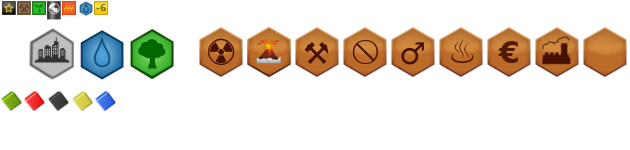
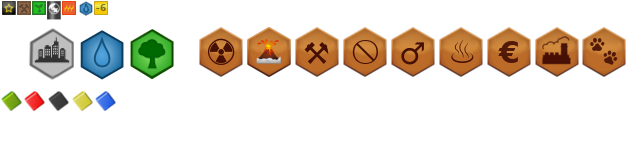
More details for specific tiles; #376 (#414)
* More details for specific tiles; #376

* Use CardName enum; #376

* Remove debug code

* Use new TileTypes instead of tileDetails to show correct tile images; #376

Changed region(s): [[0.9048, 0.1867, 0.9952, 0.5067]]

diff --git a/src/components/Tile.ts b/src/components/Tile.ts
@@ -2,39 +2,81 @@ import { TileType } from "../TileType";
 import { Color } from "../Color";
 import Vue from "vue";
 
+let tileTypeToCssClass = new Map<TileType, string>([
+    [TileType.COMMERCIAL_DISTRICT, "commercial_district"],
+    [TileType.ECOLOGICAL_ZONE, "ecological_zone"],
+    [TileType.INDUSTRIAL_CENTER, "industrial_center"],
+    [TileType.LAVA_FLOWS, "lava_flows"],
+    [TileType.MINING_AREA, "mining_area"],
+    [TileType.MINING_RIGHTS, "mining_rights"],
+    [TileType.MOHOLE_AREA, "mohole_area"],
+    [TileType.NATURAL_PRESERVE, "natural_preserve"],
+    [TileType.NUCLEAR_ZONE, "nuclear_zone"],
+    [TileType.RESTRICTED_AREA, "restricted_area"]
+]);
+
 export const Tile = Vue.component("bonus", {
     props: ["space"],
     data: function () {
         return {}
     },
     render: function (createElement) {
-        let tile_elements = [];
+        let tileElements = [];
         let app = this;
 
-        let build_tile_css_class = (tile_type: TileType):string => {
+        let buildTileCssClass = (tileType: TileType):string => {
             var ret = "board_tile board_tile--";
-            if (tile_type == TileType.GREENERY) {
+            if (tileType === TileType.GREENERY) {
                 ret += "greenery";
-            } else if (tile_type == TileType.OCEAN) {
+            } else if (tileType === TileType.OCEAN) {
                 ret += "ocean";
-            } else if (tile_type == TileType.CITY) {
+            } else if (tileType === TileType.CITY) {
                 ret += "city";
-            } else if (tile_type == TileType.SPECIAL) {
-                ret += "special";
+            } else {
+                ret += tileTypeToCssClass.get(tileType);
             }
 
             ret += " board_tile_pos--" + app.space.id.toString();
             return ret
         }
 
-        let tile_type = this.space.tileType;
-        if (tile_type !== undefined) {
-            tile_elements.push(
-                createElement("i", {"class": build_tile_css_class(tile_type)})
+        let getVerboseTitle = (tileType: TileType): string => {
+            let ret: string = ""; 
+            if (tileType === TileType.MOHOLE_AREA) {
+                ret = "Mohole Area"
+            } else if (tileType === TileType.COMMERCIAL_DISTRICT) {
+                ret = "Commercial District: 1 VP per adjacent city tile"
+            } else if (tileType === TileType.ECOLOGICAL_ZONE) {
+                ret = "Ecological Zone: 1 VP per 2 Animals on this card"
+            } else if (tileType === TileType.INDUSTRIAL_CENTER) {
+                ret = "Industrial Center"
+            } else if (tileType === TileType.LAVA_FLOWS) {
+                ret = "Lava Flows"
+            } else if (tileType === TileType.MINING_AREA) {
+                ret = "Mining Area"
+            } else if (tileType === TileType.MINING_RIGHTS) {
+                ret = "Mining Rights"
+            } else if (tileType === TileType.NATURAL_PRESERVE) {
+                ret = "Natural Preserve"
+            } else if (tileType === TileType.NUCLEAR_ZONE) {
+                ret = "Nuclear Zone"
+            } else if (tileType === TileType.RESTRICTED_AREA) {
+                ret = "Restricted Area"
+            }
+            return ret;
+        }
+
+        let tileType: TileType = this.space.tileType;
+        if (tileType !== undefined) {
+            tileElements.push(
+                createElement("i", {
+                    "class": buildTileCssClass(tileType),
+                    "attrs": {"title": getVerboseTitle(tileType)}
+                })
             )
         }
 
-        let build_player_css_class = (player_color: Color):string => {
+        let buildPlayerCssClass = (player_color: Color):string => {
             var ret = "board_cube board_cube--";
             ret += player_color;
             ret += " board_cube_pos--" + app.space.id.toString();
@@ -44,11 +86,11 @@ export const Tile = Vue.component("bonus", {
         let color = this.space.color;
 
         if (color) {
-            tile_elements.push(
-                createElement("i", {"class": build_player_css_class(color)})
+            tileElements.push(
+                createElement("i", {"class": buildPlayerCssClass(color)})
             )
         }
         
-        return createElement("span", tile_elements);
+        return createElement("span", tileElements);
     }
 });

diff --git a/src/styles/board.less b/src/styles/board.less
@@ -80,8 +80,6 @@
 	height: 18px;
 }
 
-
-
 .board_tile {
 	position: absolute;
 	width: 44px;
@@ -102,8 +100,40 @@
 	background: url(assets/board_icons.png) -130px -27px no-repeat;
 }
 
-.board_tile--special {
+.board_tile--mohole_area {
+	background: url(assets/board_icons.png) -439px -26px no-repeat;	
+}
+
+.board_tile--commercial {
+	background: url(assets/board_icons.png) -488px -26px no-repeat;	
+}
+
+.board_tile--ecological_zone {
 	background: url(assets/board_icons.png) -583px -26px no-repeat;	
+}
+
+.board_tile--industrial_center {
+	background: url(assets/board_icons.png) -536px -26px no-repeat;	
+}
+
+.board_tile--lava_flows {
+	background: url(assets/board_icons.png) -248px -26px no-repeat;	
+}
+
+.board_tile--mining_area, .board_tile--mining_rights {
+	background: url(assets/board_icons.png) -296px -26px no-repeat;	
+}
+
+.board_tile--natural_preserve {
+	background: url(assets/board_icons.png) -391px -26px no-repeat;	
+}
+
+.board_tile--nuclear_zone {
+	background: url(assets/board_icons.png) -200px -26px no-repeat;	
+}
+
+.board_tile--restricted_area {
+	background: url(assets/board_icons.png) -344px -26px no-repeat;	
 }
 
 .board_cube {

diff --git a/src/cards/prelude/LavaTubeSettlement.ts b/src/cards/prelude/LavaTubeSettlement.ts
@@ -20,11 +20,15 @@ export class LavaTubeSettlement implements IProjectCard {
         return LavaFlows.getVolcanicSpaces(player, game).length > 0 && player.getProduction(Resources.ENERGY) >= 1;
     }
     public play(player: Player, game: Game) {
-        return new SelectSpace("Select either Tharsis Tholus, Ascraeus Mons, Pavonis Mons or Arsia Mons", LavaFlows.getVolcanicSpaces(player, game), (space: ISpace) => {
-            game.addCityTile(player, space.id);
-            player.setProduction(Resources.MEGACREDITS,2);
-            player.setProduction(Resources.ENERGY,-1);
-            return undefined;
-        });
+        return new SelectSpace(
+            "Select either Tharsis Tholus, Ascraeus Mons, Pavonis Mons or Arsia Mons", 
+            LavaFlows.getVolcanicSpaces(player, game), 
+            (space: ISpace) => {
+                game.addCityTile(player, space.id);
+                player.setProduction(Resources.MEGACREDITS,2);
+                player.setProduction(Resources.ENERGY,-1);
+                return undefined;
+            }
+        );
     }
 }

diff --git a/src/TileType.ts b/src/TileType.ts
@@ -3,5 +3,15 @@ export enum TileType {
     GREENERY,
     OCEAN,
     CITY,
-    SPECIAL
+    
+    COMMERCIAL_DISTRICT,
+    ECOLOGICAL_ZONE,
+    INDUSTRIAL_CENTER,
+    LAVA_FLOWS,
+    MINING_AREA,
+    MINING_RIGHTS,
+    MOHOLE_AREA,
+    NATURAL_PRESERVE,
+    NUCLEAR_ZONE,
+    RESTRICTED_AREA
 }

diff --git a/tests/cards/LavaFlows.spec.ts b/tests/cards/LavaFlows.spec.ts
@@ -13,11 +13,11 @@ describe("LavaFlows", function () {
         const card = new LavaFlows();
         const player = new Player("test", Color.BLUE, false);
         const game = new Game("foobar", [player,player], player);
-        game.addTile(player, SpaceType.LAND, game.getSpace(SpaceName.THARSIS_THOLUS), { tileType: TileType.SPECIAL }); 
+        game.addTile(player, SpaceType.LAND, game.getSpace(SpaceName.THARSIS_THOLUS), { tileType: TileType.LAVA_FLOWS }); 
         const anotherPlayer = new Player("test", Color.RED, false);
         game.getSpace(SpaceName.ASCRAEUS_MONS).player = anotherPlayer; // land claim
-        game.addTile(player, SpaceType.LAND, game.getSpace(SpaceName.ARSIA_MONS), { tileType: TileType.SPECIAL });
-        game.addTile(player, SpaceType.LAND, game.getSpace(SpaceName.PAVONIS_MONS), { tileType: TileType.SPECIAL });
+        game.addTile(player, SpaceType.LAND, game.getSpace(SpaceName.ARSIA_MONS), { tileType: TileType.LAVA_FLOWS });
+        game.addTile(player, SpaceType.LAND, game.getSpace(SpaceName.PAVONIS_MONS), { tileType: TileType.LAVA_FLOWS });
         expect(card.canPlay(player, game)).to.eq(false);
     });
     it("Should play", function () {
@@ -27,7 +27,7 @@ describe("LavaFlows", function () {
         const action = card.play(player, game);
         expect(action).not.to.eq(undefined);
         action.cb(action.availableSpaces[0]);
-        expect(action.availableSpaces[0].tile && action.availableSpaces[0].tile.tileType).to.eq(TileType.SPECIAL);
+        expect(action.availableSpaces[0].tile && action.availableSpaces[0].tile.tileType).to.eq(TileType.LAVA_FLOWS);
         expect(action.availableSpaces[0].player).to.eq(player);
         expect(game.getTemperature()).to.eq(-26);
     });

diff --git a/tests/cards/MiningArea.spec.ts b/tests/cards/MiningArea.spec.ts
@@ -26,7 +26,7 @@ describe("MiningArea", function () {
                 const adjacents = game.board.getAdjacentSpaces(land);
                 for (let adjacent of adjacents) {
                     if (adjacent.tile === undefined && adjacent.bonus.length === 0) {
-                        game.addTile(player, adjacent.spaceType, adjacent, { tileType: TileType.SPECIAL });
+                        game.addTile(player, adjacent.spaceType, adjacent, { tileType: TileType.MINING_AREA });
                     }
                 }
             }
@@ -38,13 +38,13 @@ describe("MiningArea", function () {
         expect(titaniumSpace).not.to.eq(undefined);
         action.cb(titaniumSpace!);
         expect(titaniumSpace!.player).to.eq(player);
-        expect(titaniumSpace!.tile && titaniumSpace!.tile!.tileType).to.eq(TileType.SPECIAL);
+        expect(titaniumSpace!.tile && titaniumSpace!.tile!.tileType).to.eq(TileType.MINING_AREA);
         expect(player.getProduction(Resources.TITANIUM)).to.eq(1); 
         const steelSpace = action.availableSpaces.find((space) => space.bonus.indexOf(SpaceBonus.TITANIUM) === -1 && space.bonus.indexOf(SpaceBonus.STEEL) !== -1);
         expect(steelSpace).not.to.eq(undefined);
         action.cb(steelSpace!);
         expect(steelSpace!.player).to.eq(player);
-        expect(steelSpace!.tile && steelSpace!.tile!.tileType).to.eq(TileType.SPECIAL);
+        expect(steelSpace!.tile && steelSpace!.tile!.tileType).to.eq(TileType.MINING_AREA);
         expect(player.getProduction(Resources.TITANIUM)).to.eq(1); 
     });
 });

diff --git a/tests/cards/MiningRights.spec.ts b/tests/cards/MiningRights.spec.ts
@@ -16,7 +16,7 @@ describe("MiningRights", function () {
         const game = new Game("foobar", [player,player], player);
         for (let land of game.board.getAvailableSpacesOnLand(player)) {
             if (land.bonus.indexOf(SpaceBonus.STEEL) !== -1 || land.bonus.indexOf(SpaceBonus.TITANIUM) !== -1) {
-                game.addTile(player, land.spaceType, land, { tileType: TileType.SPECIAL });
+                game.addTile(player, land.spaceType, land, { tileType: TileType.MINING_RIGHTS });
             }
         }
         expect(card.canPlay(player, game)).to.eq(false);
@@ -32,13 +32,13 @@ describe("MiningRights", function () {
         expect(titaniumSpace).not.to.eq(undefined);
         action.cb(titaniumSpace!);
         expect(titaniumSpace!.player).to.eq(player);
-        expect(titaniumSpace!.tile && titaniumSpace!.tile!.tileType).to.eq(TileType.SPECIAL);
+        expect(titaniumSpace!.tile && titaniumSpace!.tile!.tileType).to.eq(TileType.MINING_RIGHTS);
         expect(player.getProduction(Resources.TITANIUM)).to.eq(1); 
         const steelSpace = action.availableSpaces.find((space) => space.bonus.indexOf(SpaceBonus.TITANIUM) === -1 && space.bonus.indexOf(SpaceBonus.STEEL) !== -1);
         expect(steelSpace).not.to.eq(undefined);
         action.cb(steelSpace!);
         expect(steelSpace!.player).to.eq(player);
-        expect(steelSpace!.tile && steelSpace!.tile!.tileType).to.eq(TileType.SPECIAL);
+        expect(steelSpace!.tile && steelSpace!.tile!.tileType).to.eq(TileType.MINING_RIGHTS);
         expect(player.getProduction(Resources.TITANIUM)).to.eq(1); 
     });
 });

diff --git a/tests/cards/prelude/LavaTubeSettlement.spec.ts b/tests/cards/prelude/LavaTubeSettlement.spec.ts
@@ -17,11 +17,11 @@ describe("LavaTubeSettlement", function () {
         expect(card.canPlay(player, game)).to.eq(false);
         player.setProduction(Resources.ENERGY);
         expect(card.canPlay(player, game)).to.eq(true);
-        game.addTile(player, SpaceType.LAND, game.getSpace(SpaceName.THARSIS_THOLUS), { tileType: TileType.SPECIAL }); 
+        game.addTile(player, SpaceType.LAND, game.getSpace(SpaceName.THARSIS_THOLUS), { tileType: TileType.LAVA_FLOWS }); 
         const anotherPlayer = new Player("test", Color.RED, false);
         game.getSpace(SpaceName.ASCRAEUS_MONS).player = anotherPlayer; // land claim
-        game.addTile(player, SpaceType.LAND, game.getSpace(SpaceName.ARSIA_MONS), { tileType: TileType.SPECIAL });
-        game.addTile(player, SpaceType.LAND, game.getSpace(SpaceName.PAVONIS_MONS), { tileType: TileType.SPECIAL });
+        game.addTile(player, SpaceType.LAND, game.getSpace(SpaceName.ARSIA_MONS), { tileType: TileType.LAVA_FLOWS });
+        game.addTile(player, SpaceType.LAND, game.getSpace(SpaceName.PAVONIS_MONS), { tileType: TileType.LAVA_FLOWS });
         expect(card.canPlay(player, game)).to.eq(false);
     });
     it("Should play", function () {

diff --git a/src/inputs/SelectSpace.ts b/src/inputs/SelectSpace.ts
@@ -6,7 +6,10 @@ import { PlayerInputTypes } from "../PlayerInputTypes";
 
 export class SelectSpace implements PlayerInput {
     public inputType: PlayerInputTypes = PlayerInputTypes.SELECT_SPACE;
-    constructor(public title: string, public availableSpaces: Array<ISpace>, public cb: (space: ISpace) => OrOptions | SelectSpace | undefined) {
+    constructor(
+        public title: string, 
+        public availableSpaces: Array<ISpace>, 
+        public cb: (space: ISpace) => OrOptions | SelectSpace | undefined) {
         if (availableSpaces.length === 0) {
             throw "No available spaces";
         }

diff --git a/tests/cards/NaturalPreserve.spec.ts b/tests/cards/NaturalPreserve.spec.ts
@@ -15,7 +15,7 @@ describe("NaturalPreserve", function () {
         const game = new Game("foobar", [player,player], player);
         const lands = game.board.getAvailableSpacesOnLand(player);
         for (let land of lands) {
-            game.addTile(player, land.spaceType, land, { tileType: TileType.SPECIAL });
+            game.addTile(player, land.spaceType, land, { tileType: TileType.NATURAL_PRESERVE });
         }
         expect(card.canPlay(player, game)).to.eq(false);
         game.increaseOxygenLevel(player, 2); // 2
@@ -34,6 +34,6 @@ describe("NaturalPreserve", function () {
         expect(player.getProduction(Resources.MEGACREDITS)).to.eq(1);
         player.victoryPoints += card.getVictoryPoints();
         expect(player.victoryPoints).to.eq(1);
-        expect(action.availableSpaces[0].tile && action.availableSpaces[0].tile.tileType).to.eq(TileType.SPECIAL);
+        expect(action.availableSpaces[0].tile && action.availableSpaces[0].tile.tileType).to.eq(TileType.NATURAL_PRESERVE);
     }); 
 });

diff --git a/src/Board.ts b/src/Board.ts
@@ -115,7 +115,7 @@ export abstract class Board {
 
     public getAvailableSpacesForGreenery(player: Player): Array<ISpace> {
         const spacesForGreenery = this.getAvailableSpacesOnLand(player)
-            .filter((space) => this.getAdjacentSpaces(space).find((adj) => adj.tile !== undefined && adj.player === player && (adj.tile.tileType === TileType.GREENERY || adj.tile.tileType === TileType.SPECIAL || adj.tile.tileType === TileType.CITY)) !== undefined);
+            .filter((space) => this.getAdjacentSpaces(space).find((adj) => adj.tile !== undefined && adj.player === player && adj.tile.tileType !== TileType.OCEAN) !== undefined);
 
         // Spaces next to tiles you own
         if (spacesForGreenery.length > 0) {

diff --git a/src/cards/CommercialDistrict.ts b/src/cards/CommercialDistrict.ts
@@ -35,7 +35,7 @@ export class CommercialDistrict implements IProjectCard {
           game.board.getAvailableSpacesOnLand(player),
           (foundSpace: ISpace) => {
             game.addTile(player, foundSpace.spaceType, foundSpace, {
-              tileType: TileType.SPECIAL,
+              tileType: TileType.COMMERCIAL_DISTRICT,
               card: this.name
             });
             player.setProduction(Resources.ENERGY,-1);